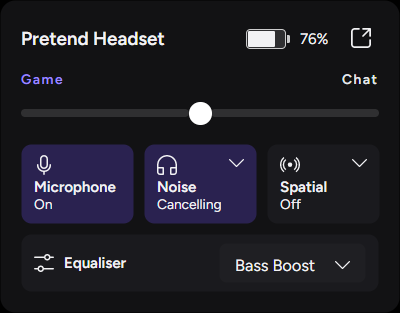
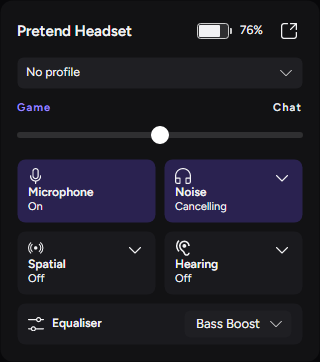
Retake the README's Home, mini panel and Profiles pictures for 0.4.0
All four README pictures now come from this release. Home, Profiles and the
mini panel are drawn again with snap.ps1 from the pretend headset, from a
pretend settings folder with Pretend Chat chosen, a default profile and a
game's profile. The mini panel shows every tile it now offers, the profile
and Superhuman Hearing among them, and its caption says so.

snap.ps1's help names the pretend folder as a plain folder name, as the app
takes it; a path under Pretend falls back to the shared folder.

diff --git a/README.md b/README.md
@@ -84,7 +84,7 @@ Click Neap's icon by the clock for the mix, the microphone, noise
 cancellation, spatial sound, Superhuman Hearing, the equaliser preset and
 the profile in use. Choose which ones it shows.
 
-![The mini panel, with the game and chat mix, tiles for the microphone, noise cancellation and spatial sound, and the equaliser preset.](docs/screenshots/mini.png)
+![The mini panel, with the profile, the game and chat mix, tiles for the microphone, noise cancellation, spatial sound and Superhuman Hearing, and the equaliser preset.](docs/screenshots/mini.png)
 
 ### Profiles that follow your games
 
